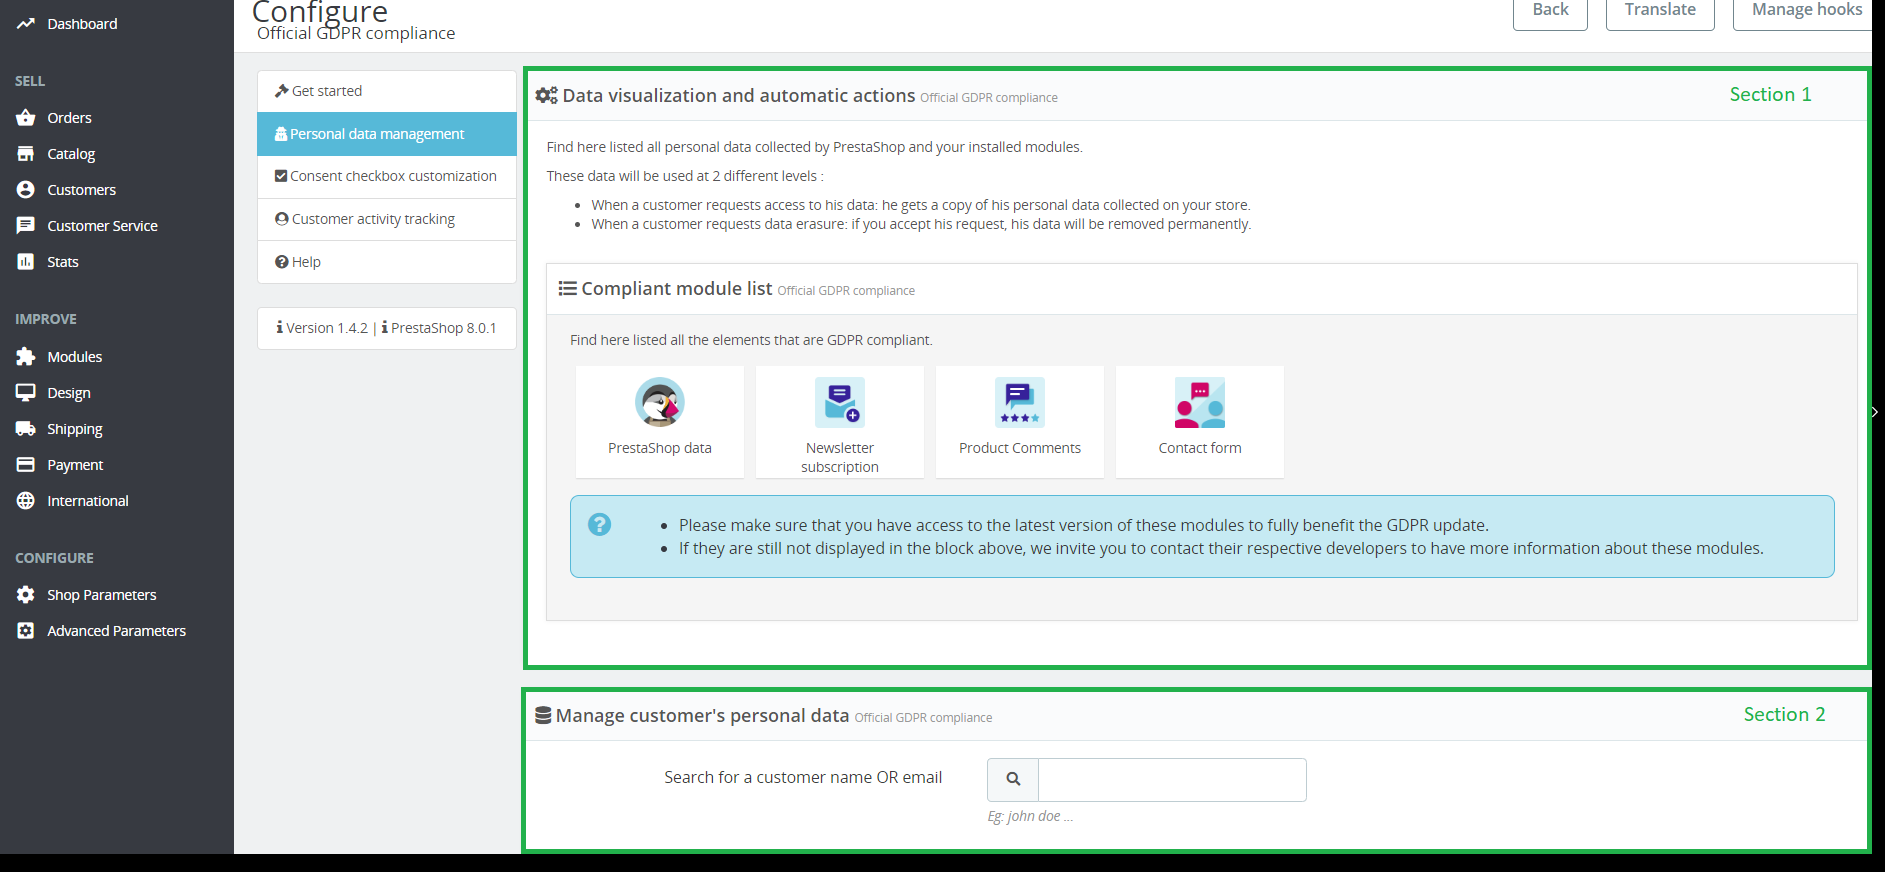
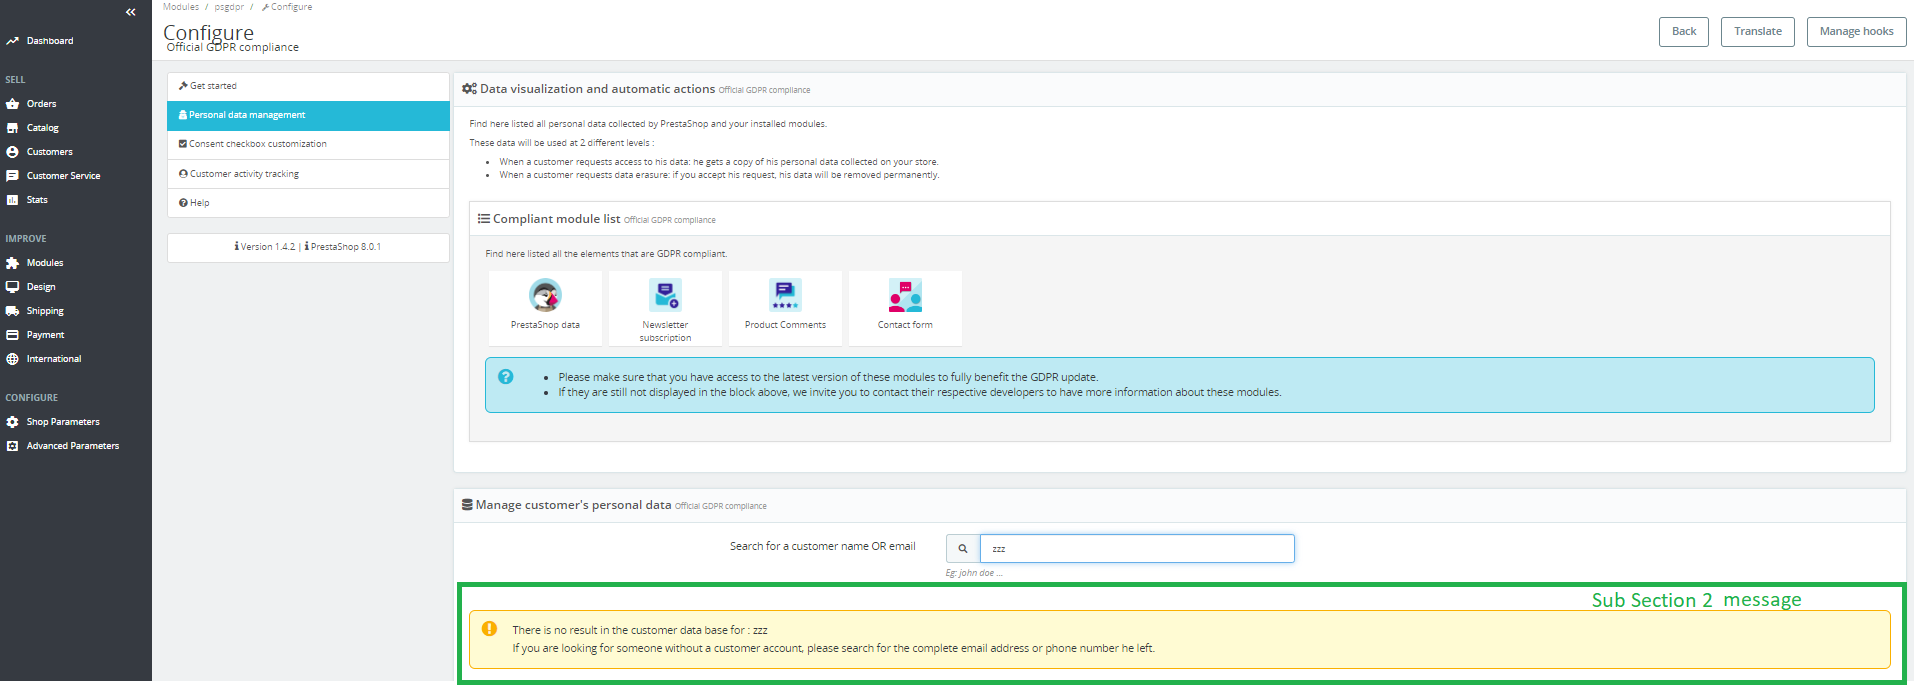
GITBOOK-430: No subject

diff --git a/functional-documentation/ux-ui/back-office/modules/module-gdpr/personal-data-management/README.md b/functional-documentation/ux-ui/back-office/modules/module-gdpr/personal-data-management/README.md
@@ -50,15 +50,13 @@ Next, you can search for a customer in your database and view all of this custom
 
 #### Section 2 : Manage customer's personal data
 
+You can search for a customer in your database and view all of this customer's data that has been collected by the PrestaShop solution and the GDPR-compliant modules installed on your store. To search for a customer, please enter the first letters of your customer's name or email address.
+
 **Search for a customer name or email**
 
 <table><thead><tr><th>Description</th><th>Value</th><th align="center">Error message</th><th data-hidden></th></tr></thead><tbody><tr><td>Mandatory</td><td>NA</td><td align="center">-</td><td>Error message if not allowed</td></tr><tr><td>Allowed/Forbidden values</td><td>NA</td><td align="center"></td><td></td></tr><tr><td>Default value</td><td> <strong></strong> </td><td align="center">-</td><td></td></tr><tr><td>Help text</td><td>NA</td><td align="center">-</td><td></td></tr><tr><td>Tool tips</td><td>NA</td><td align="center">-</td><td></td></tr><tr><td>Lower limit</td><td>NA</td><td align="center"></td><td>Error message if bellow the limit</td></tr><tr><td>Upper limit</td><td>NA</td><td align="center"></td><td>Error message if up to the limit</td></tr><tr><td>Behavior/Workflow</td><td>B1</td><td align="center">-</td><td>cd829e07342f4c6e9017c9808ca68fba</td></tr></tbody></table>
 
 ## Behaviors description
-
-B1 : Next, you can search for a customer in your database and view all of this customer's data that has been collected by the PrestaShop solution and the GDPR-compliant modules installed on your store. To search for a customer, please enter the first letters of your customer's name or email address.
-
-A FINIR
 
 ### Workflow
 
@@ -70,6 +68,24 @@ A FINIR
 * This sub-section COULD contains a link to the relevant [business rule](../../../../../how-to-write-functional-documentation/templates/business-rules-template.md)
 
 This section COULD contains label (ex: multishop case ...)
+
+
+
+
+
+B1 with results :&#x20;
+
+When you enter letters in the search field, all the customers matching the research are displayed look at the ["Customer personal data - Result"](customers-personal-data-no-match.md) section
+
+
+
+B1 without result&#x20;
+
+When you enter letters in the search field, if no customer matched the research a message is displayed. Look at the Message ["Customer personal data - Result"](customers-personal-data-no-match.md) section
+
+
+
+A FINIR
 
 ## Error messages
 

diff --git a/SUMMARY.md b/SUMMARY.md
@@ -120,7 +120,7 @@
         * [Module GDPR](functional-documentation/ux-ui/back-office/modules/module-gdpr/README.md)
           * [Get started](functional-documentation/ux-ui/back-office/modules/module-gdpr/get-started.md)
           * [Personal data management](functional-documentation/ux-ui/back-office/modules/module-gdpr/personal-data-management/README.md)
-            * [Customer's personal data - Result](functional-documentation/ux-ui/back-office/modules/module-gdpr/personal-data-management/customers-personal-data-result.md)
+            * [Customer's personal data - no match](functional-documentation/ux-ui/back-office/modules/module-gdpr/personal-data-management/customers-personal-data-no-match.md)
           * [Consent checkbox customization](functional-documentation/ux-ui/back-office/modules/module-gdpr/consent-checkbox-customization.md)
           * [Customer activity tracking](functional-documentation/ux-ui/back-office/modules/module-gdpr/customer-activity-tracking.md)
           * [Help](functional-documentation/ux-ui/back-office/modules/module-gdpr/help.md)

diff --git a/functional-documentation/ux-ui/back-office/modules/module-gdpr/personal-data-management/customers-personal-data-no-match.md b/functional-documentation/ux-ui/back-office/modules/module-gdpr/personal-data-management/customers-personal-data-no-match.md
@@ -1,0 +1,3 @@
+# Customer's personal data - no match
+
+<figure><img src="../../../../../../.gitbook/assets/image.png" alt=""><figcaption></figcaption></figure>
